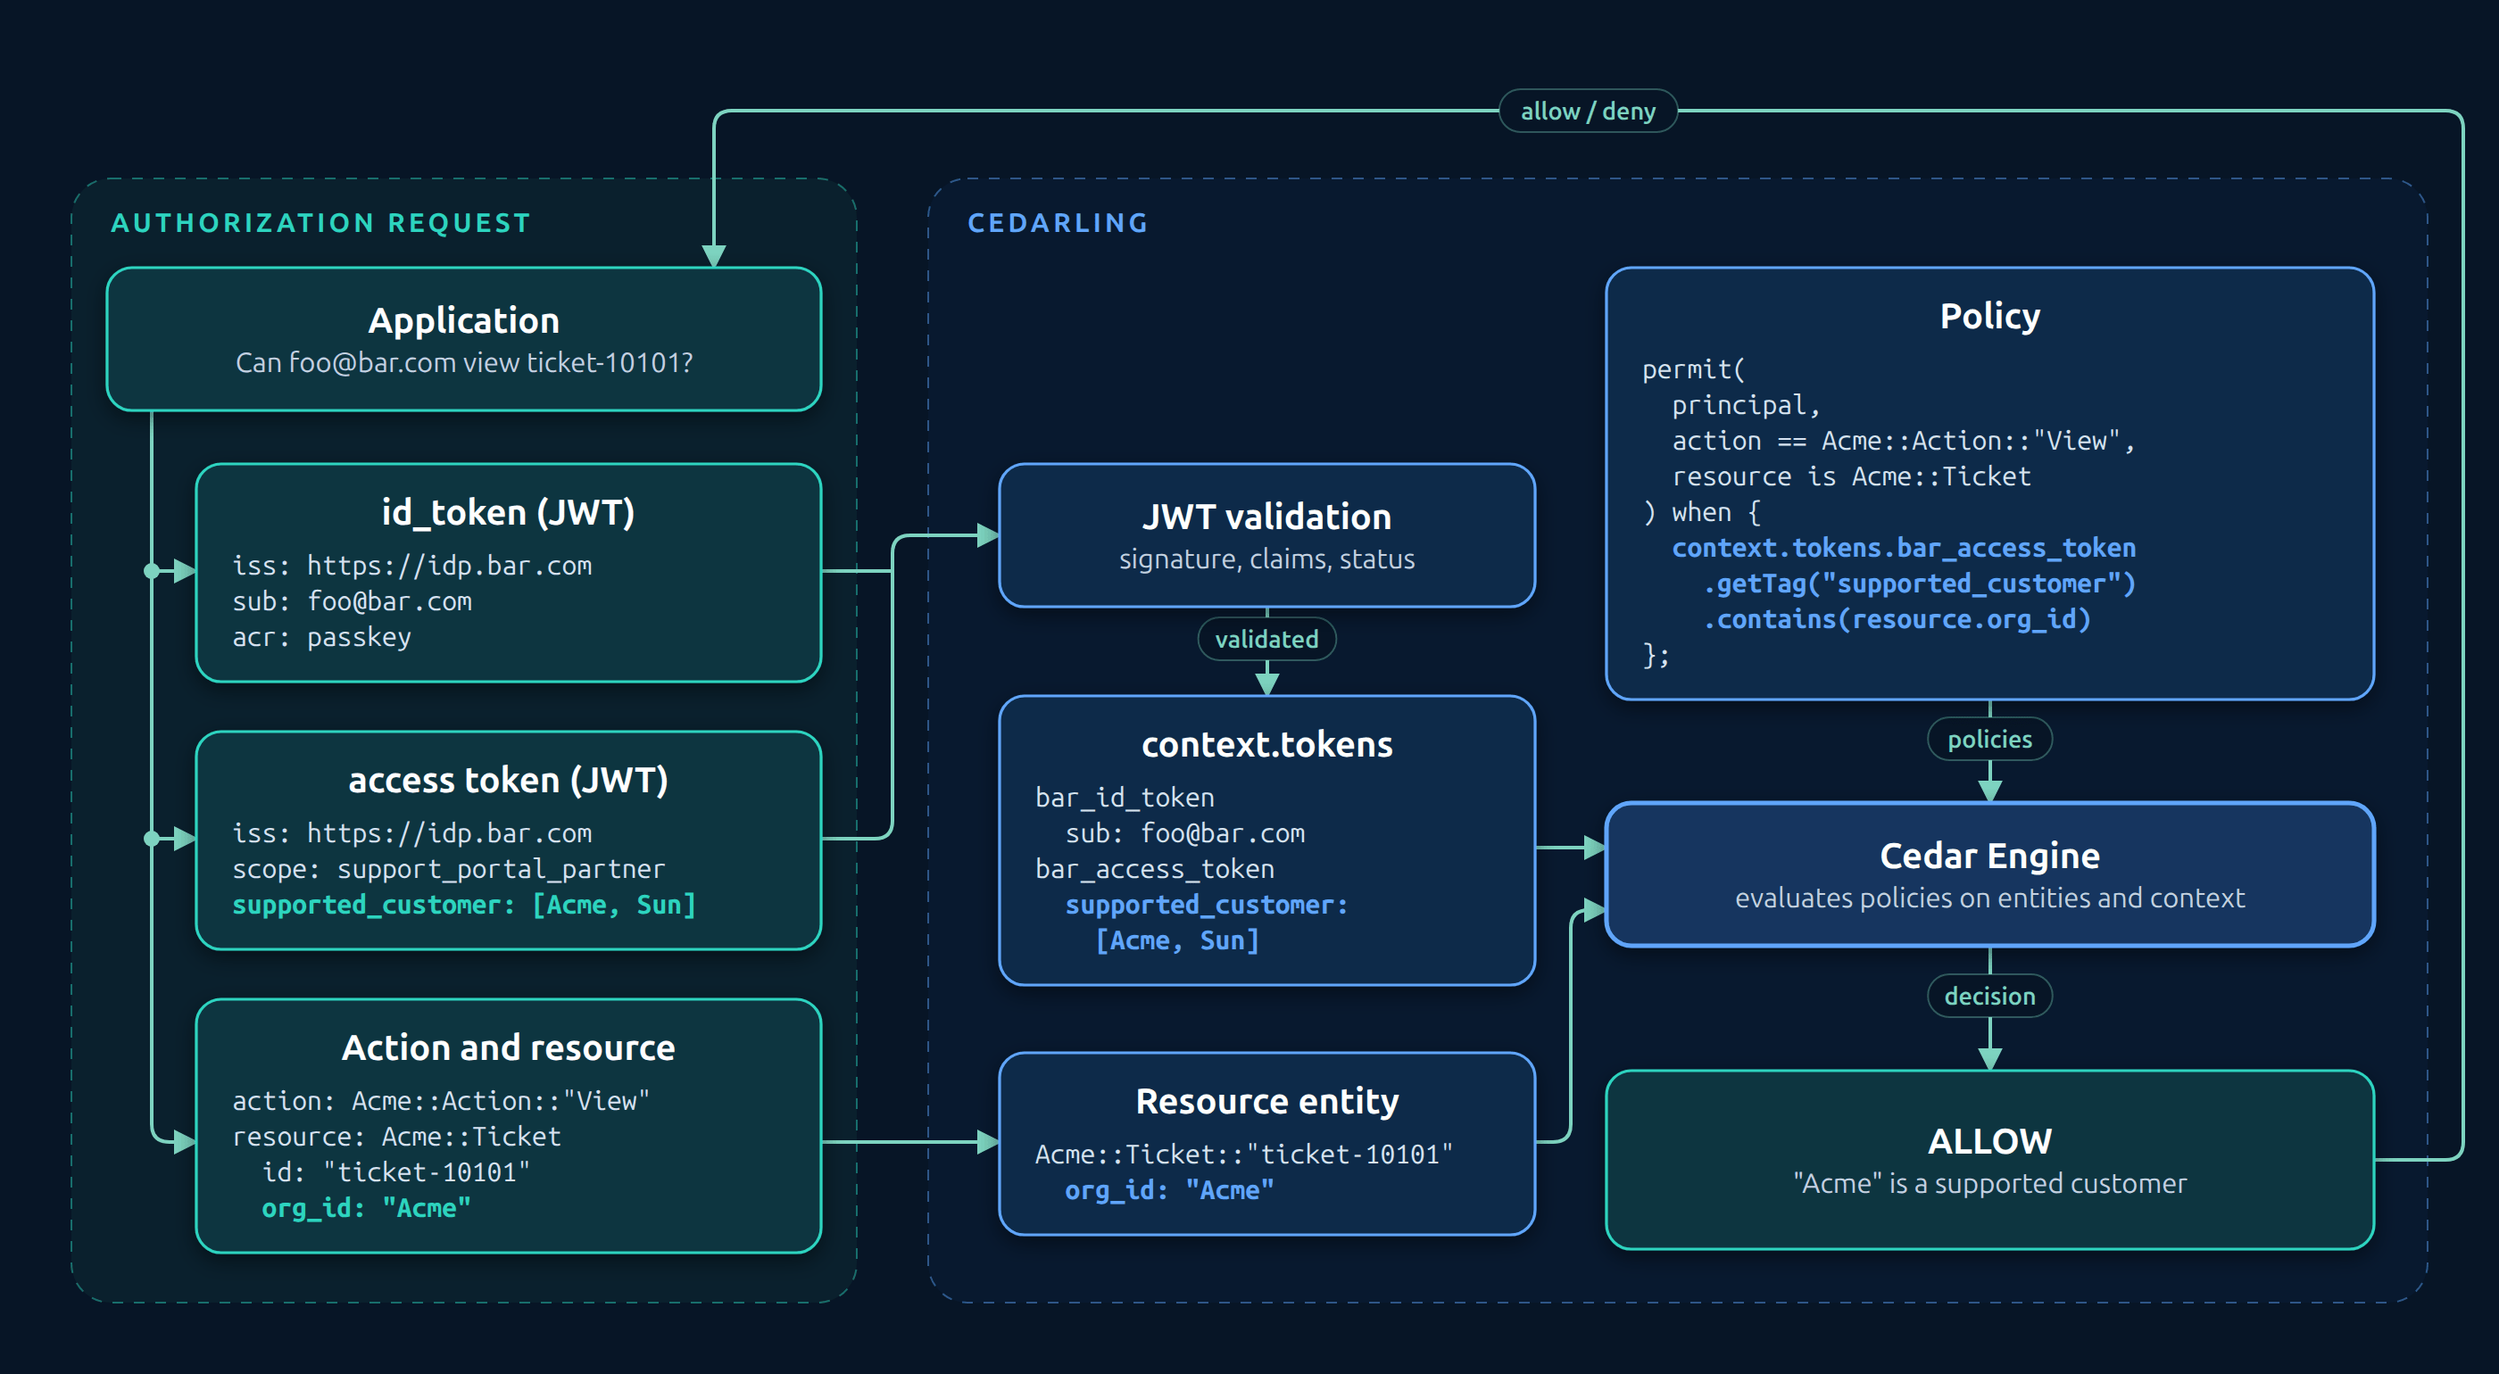
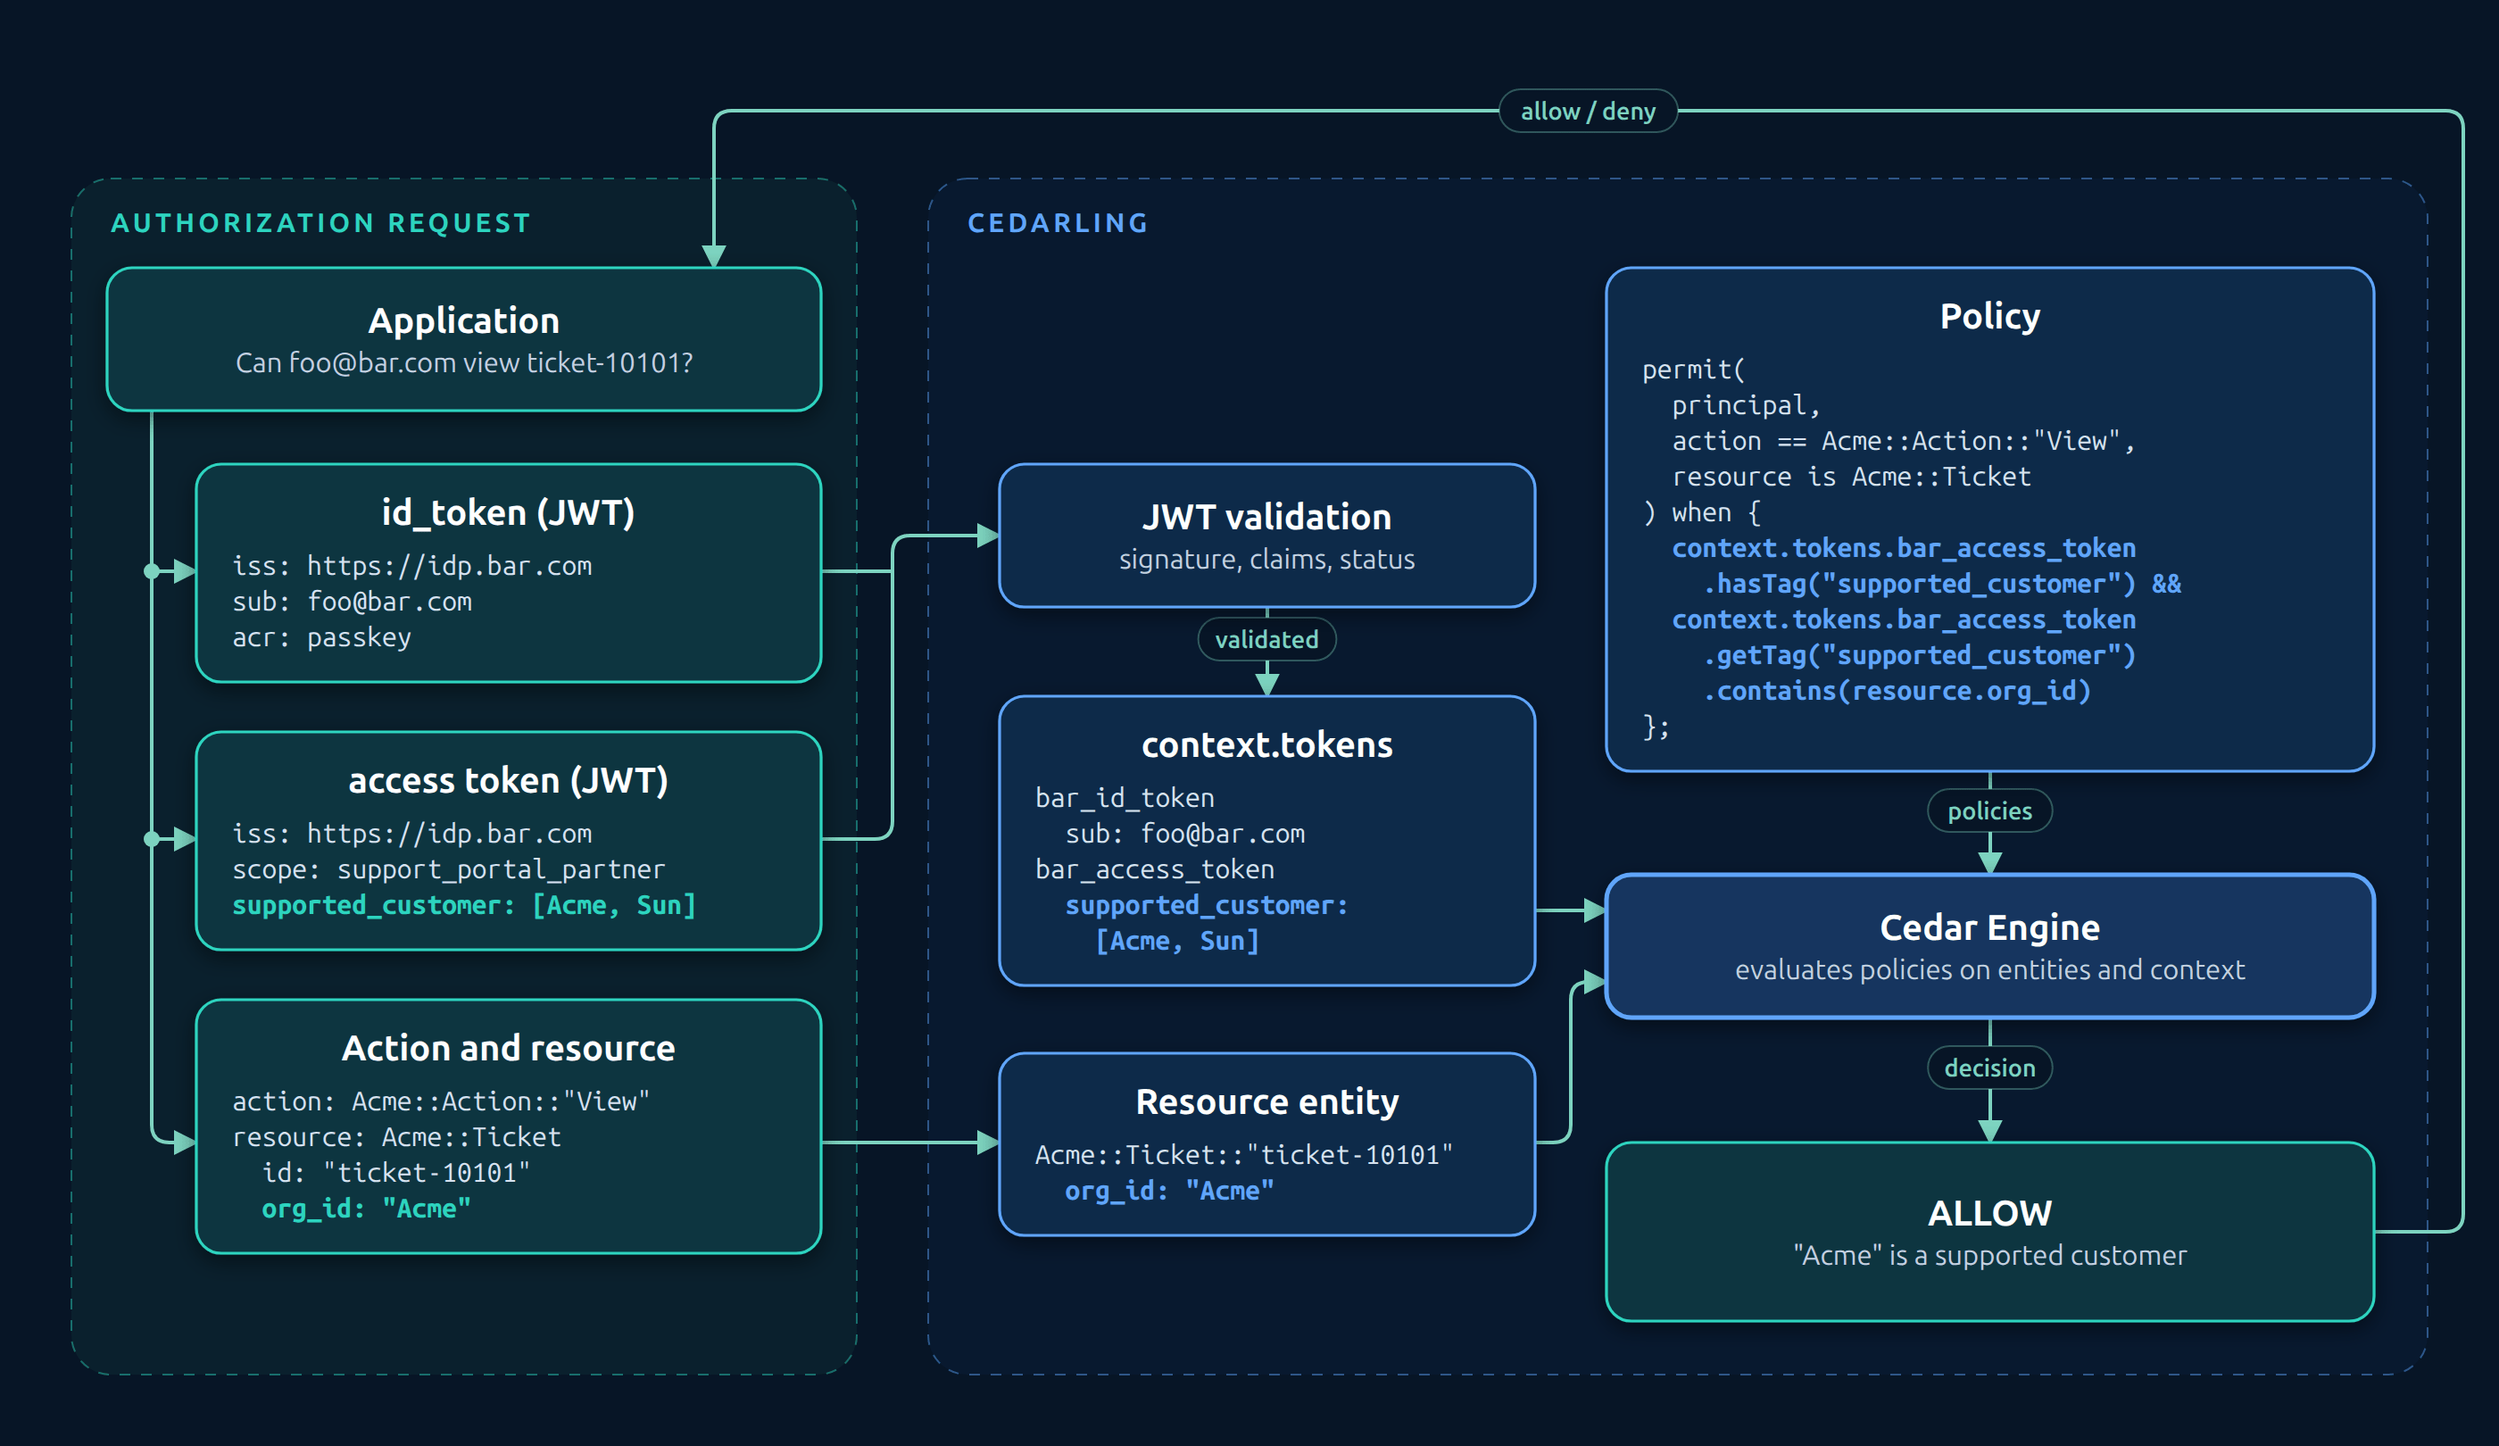
docs(jans-cedarling): guard getTag with hasTag in the authz diagram policy
Cedar strict validation rejects getTag without a hasTag check
(UnsafeTagAccess), and Cedarling validates policy stores in strict
mode. Add the guard so the example policy matches the other docs
examples and would load as shown.

diff --git a/jans-cedarling/scripts/diagrams/authz.py b/jans-cedarling/scripts/diagrams/authz.py
@@ -2,11 +2,11 @@
 
 DIAGRAM = {
     "output": "docs/assets/cedarling/cedarling-authz.png",
-    "size": (1400, 770),
+    "size": (1400, 810),
     "groups": [
         {"color": "teal", "label": "AUTHORIZATION REQUEST", "x": 40, "y": 100, "w": 440,
-         "h": 630},
-        {"color": "blue", "label": "CEDARLING", "x": 520, "y": 100, "w": 840, "h": 630},
+         "h": 670},
+        {"color": "blue", "label": "CEDARLING", "x": 520, "y": 100, "w": 840, "h": 670},
     ],
     "nodes": {
         "app": {"color": "teal", "box": (60, 150, 400, 80),
@@ -49,12 +49,14 @@ DIAGRAM = {
                             "  resource is Acme::Ticket",
                             ") when {",
                             "*  context.tokens.bar_access_token",
+                            '*    .hasTag("supported_customer") &&',
+                            "*  context.tokens.bar_access_token",
                             '*    .getTag("supported_customer")',
                             "*    .contains(resource.org_id)",
                             "};"]},
-        "cedar": {"color": "blue", "box": (900, 450, 430, 80), "emphasis": True,
+        "cedar": {"color": "blue", "box": (900, 490, 430, 80), "emphasis": True,
                   "title": "Cedar Engine", "desc": ["evaluates policies on entities and context"]},
-        "decision": {"color": "teal", "box": (900, 600, 430, 100),
+        "decision": {"color": "teal", "box": (900, 640, 430, 100),
                      "title": "ALLOW",
                      "desc": ['"Acme" is a supported customer']},
     },
@@ -66,11 +68,11 @@ DIAGRAM = {
         {"points": [(460, 470), (500, 470), (500, 300), (560, 300)]},
         {"points": [(710, 340), (710, 390)], "label": "validated", "at": (710, 365)},
         {"points": [(460, 640), (560, 640)]},
-        {"points": [(860, 475), (900, 475)]},
-        {"points": [(860, 640), (880, 640), (880, 510), (900, 510)]},
-        {"points": [(1115, 392), (1115, 450)], "label": "policies", "at": (1115, 421)},
-        {"points": [(1115, 530), (1115, 600)], "label": "decision", "at": (1115, 565)},
-        {"points": [(1330, 650), (1380, 650), (1380, 62), (400, 62), (400, 150)],
+        {"points": [(860, 510), (900, 510)]},
+        {"points": [(860, 640), (880, 640), (880, 550), (900, 550)]},
+        {"points": [(1115, 432), (1115, 490)], "label": "policies", "at": (1115, 461)},
+        {"points": [(1115, 570), (1115, 640)], "label": "decision", "at": (1115, 605)},
+        {"points": [(1330, 690), (1380, 690), (1380, 62), (400, 62), (400, 150)],
          "label": "allow / deny", "at": (890, 62)},
     ],
 }
